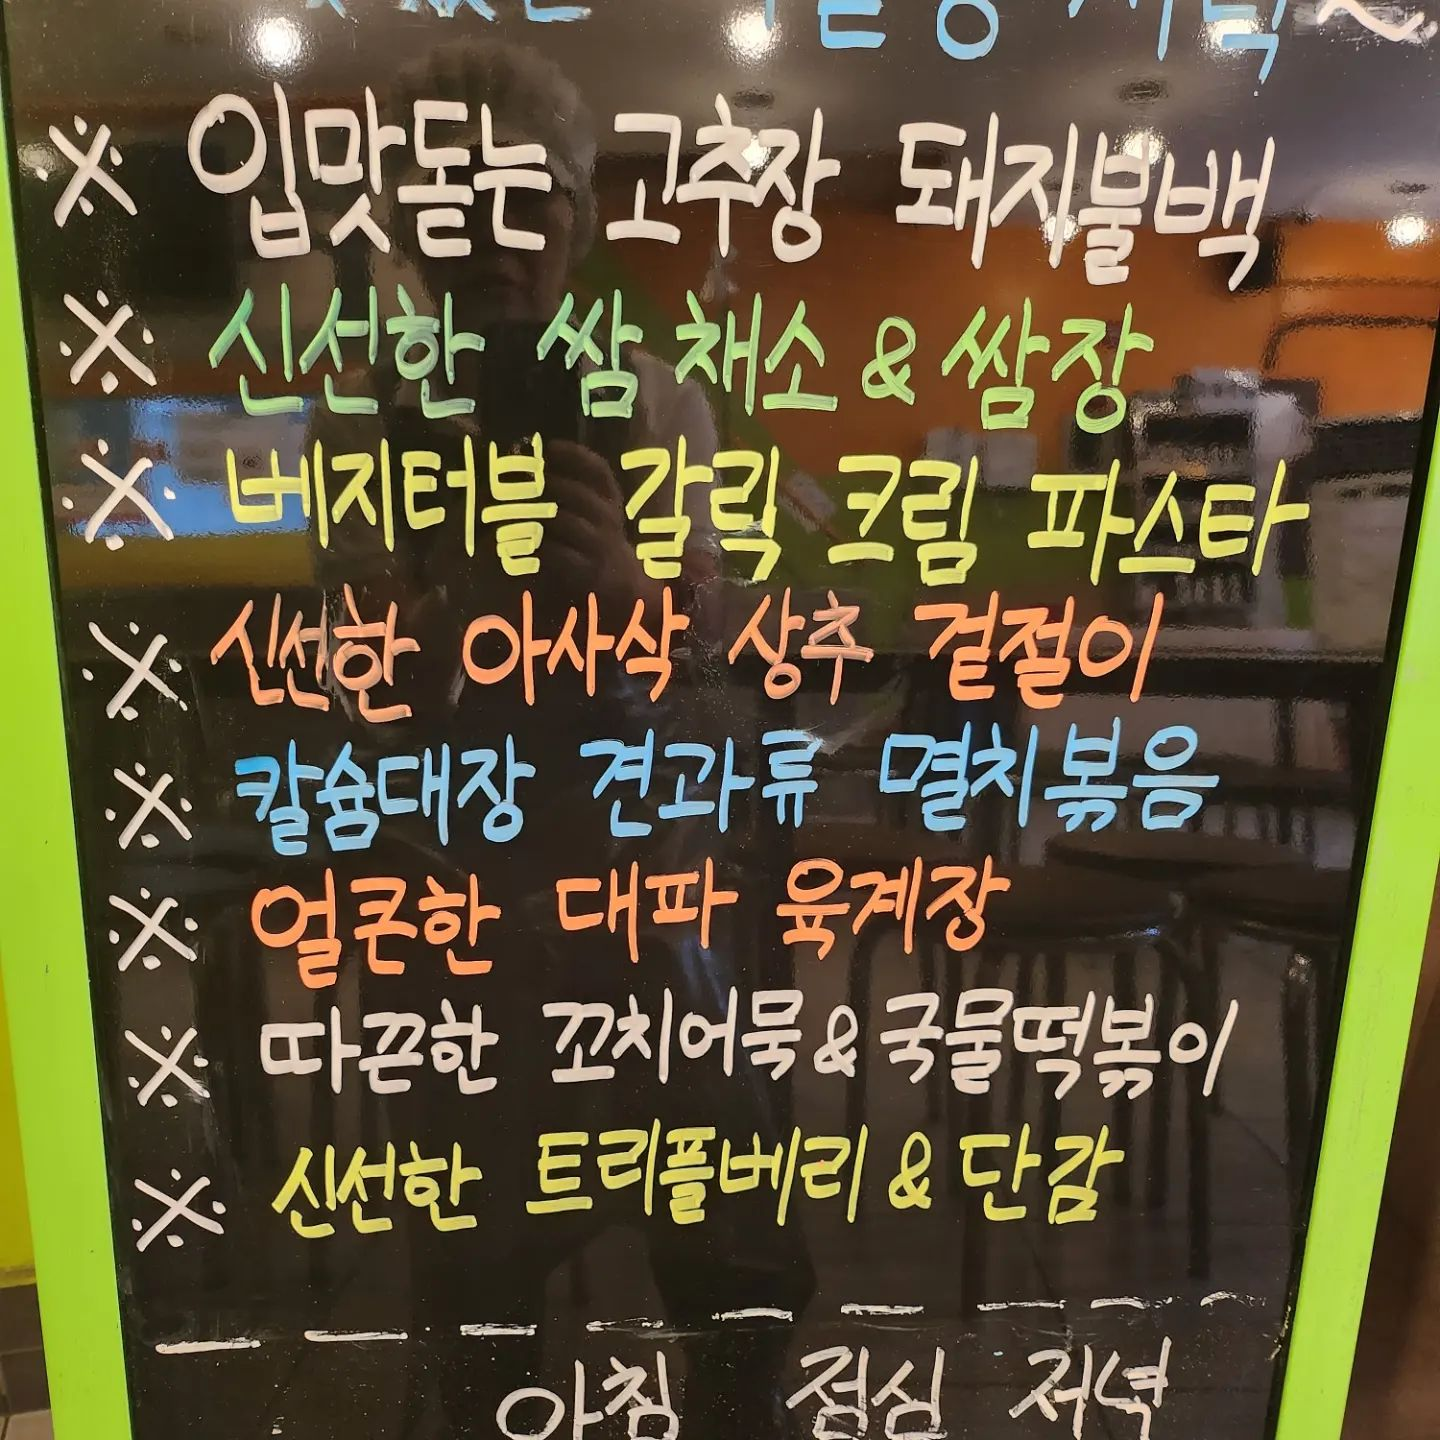
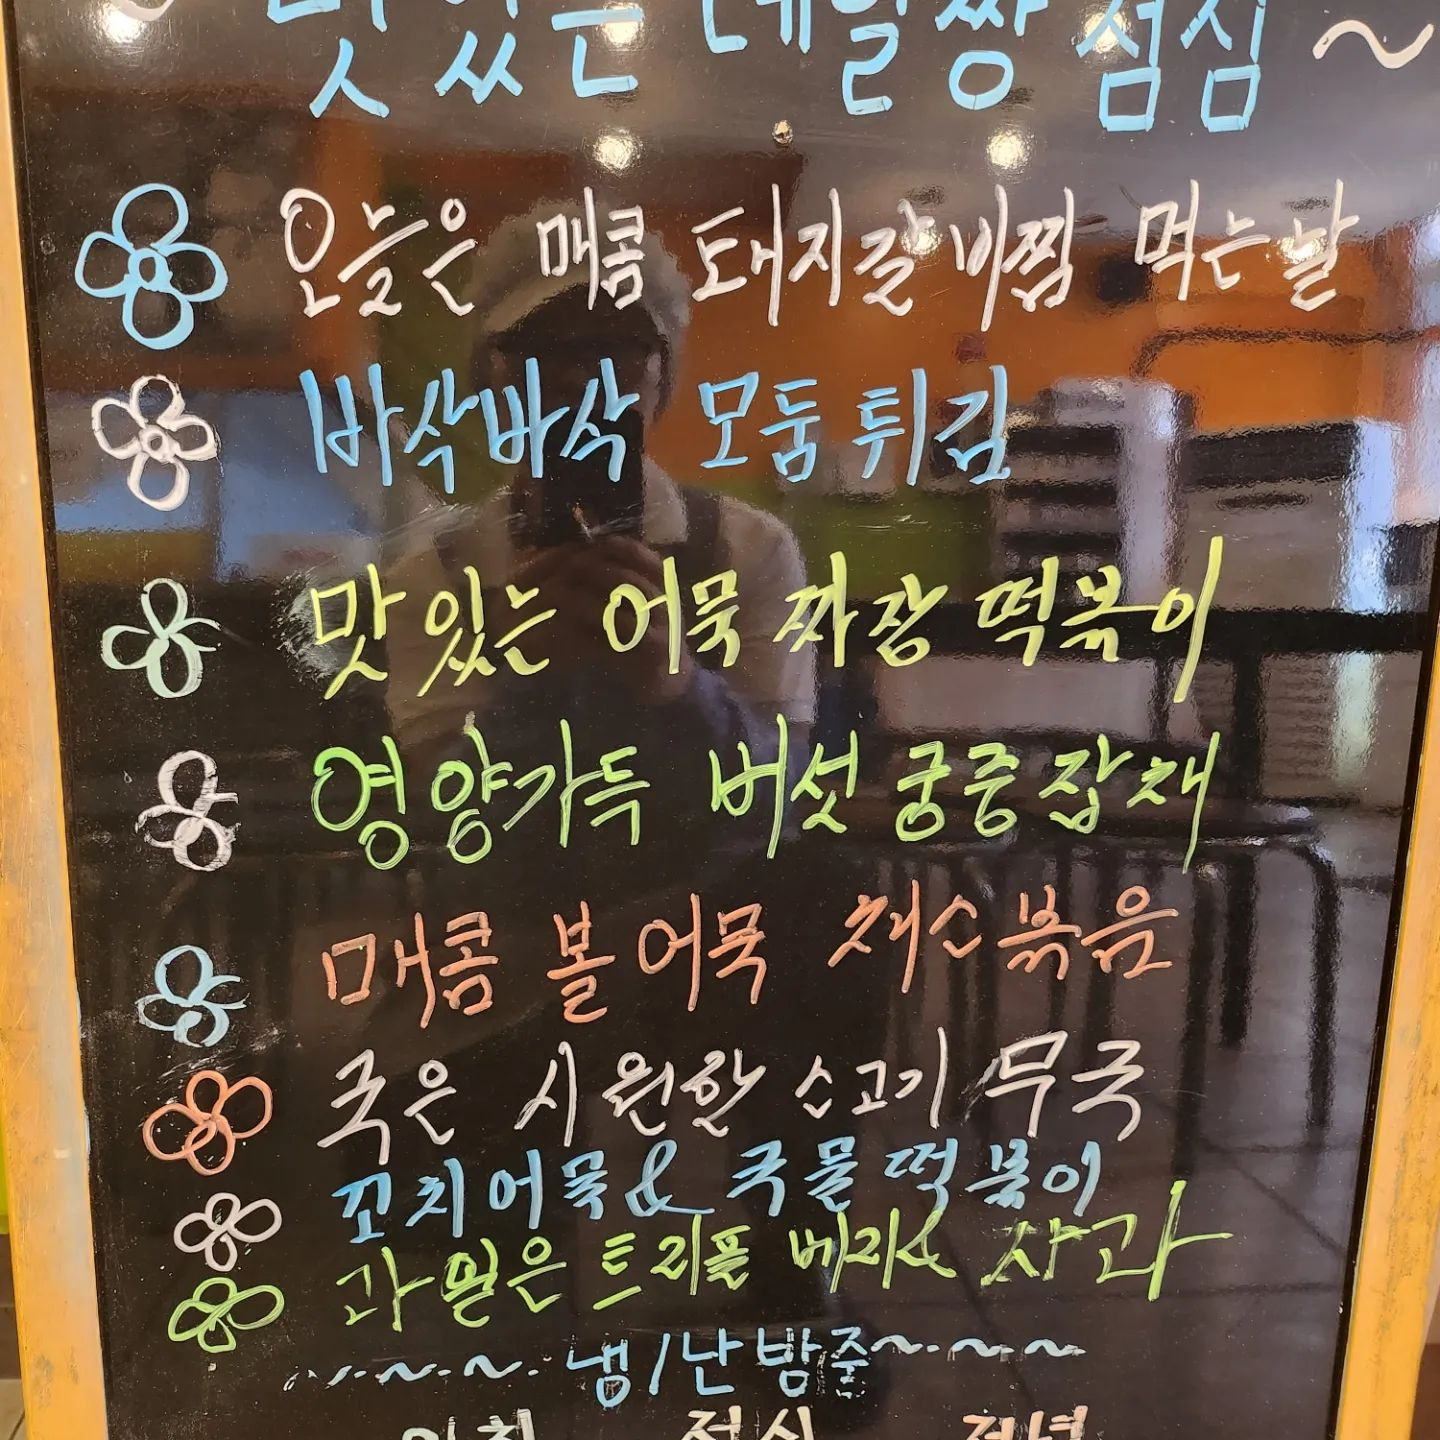
auto push

diff --git a/server/real_1_todaymenu.html b/server/real_1_todaymenu.html
@@ -1,1 +1,1 @@
-<h1 class="_aacl _aaco _aacu _aacx _aad7 _aade">3월 3일 금요일 레알짱 본점 저녁메뉴입니다. <br><br>- 불금! 매운갈비찜<br>- 모듬 튀김<br>- 후르륵 어묵면볶이<br>- 브로컬리 두부나물<br>- 계절채소겉절이<br>- 건새우미역국<br>- 과일: 바나나<br>- 갓 구운 베이커리 입니다. <br><br>^^ 👍</h1>
+<h1 class="_aacl _aaco _aacu _aacx _aad7 _aade">3월&nbsp;4일 토요일 레알짱 본점 점심메뉴입니다. <br><br>- 바삭한 치킨까스&amp;허니머스타드 🔥<br>- 밥도둑 비프 하이라이스 ❤<br>- 레알 어묵 밀떡볶이 ⭐<br>- 마카로니~참치마요<br>- 섬유질 폭탄 양배추찜<br>- 국 : 청정지역 양구 시라기 된장국<br>- 과일 : 바나나 🍌 <br>- 갓 구운 베이커리 입니다. 🥖🥯🍞<br><br>^^👍 </h1>

diff --git a/server/realtodaymenu.html b/server/realtodaymenu.html
@@ -1,1 +1,1 @@
-<h1 class="_aacl _aaco _aacu _aacx _aad7 _aade">3월 2일 금요일<br>저녁메뉴 <br>- 고추장 돼지불백<br>- 쌈 채소&amp;쌈장<br>- 갈릭 크림 파스타<br>- 상추 겉절이<br>- 견과류 멸치볶음<br>- 대파 육계장<br>- 트리플베리&amp;단감<br> 등</h1>
+<h1 class="_aacl _aaco _aacu _aacx _aad7 _aade">3월 4일 토요일<br>점심메뉴 <br>- 돼지갈비찜<br>- 모둠튀김<br>- 어묵짜장떡볶이<br>- 버섯궁중잡채<br>- 볼어묵채소볶음<br>- 소고기무국<br>- 트리플베리&amp;사과<br> 등</h1>
